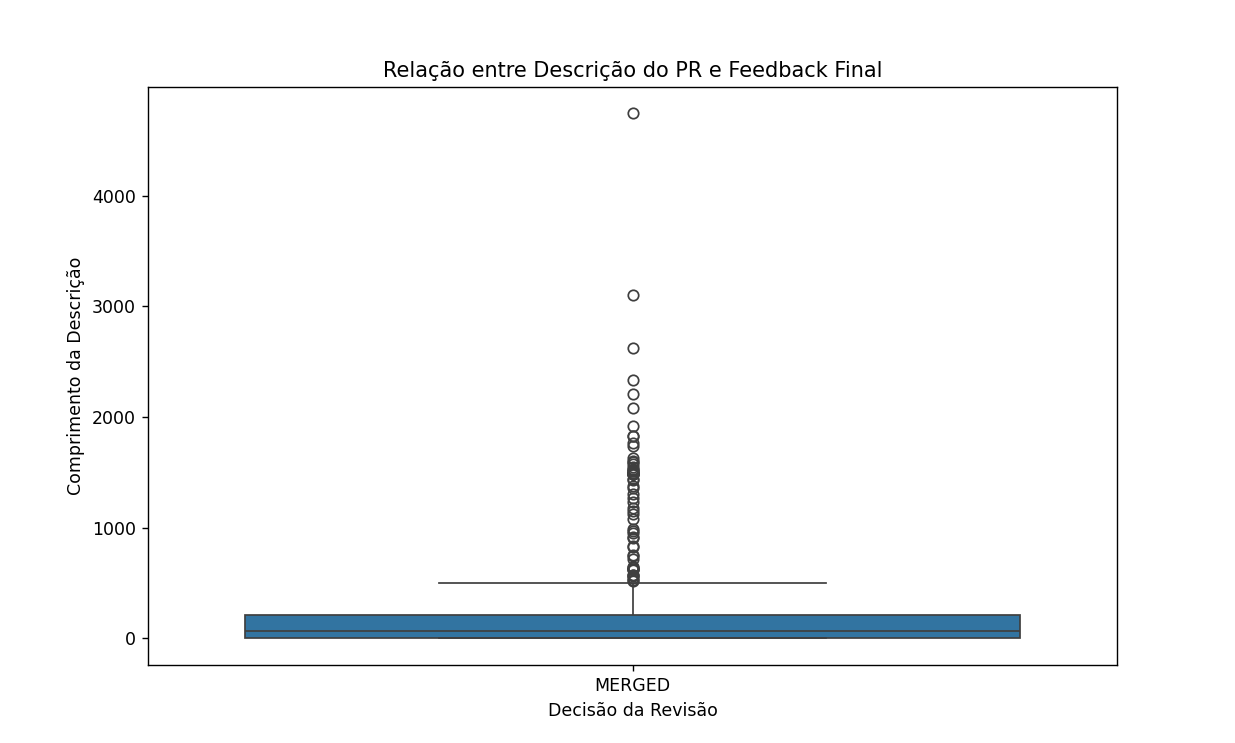
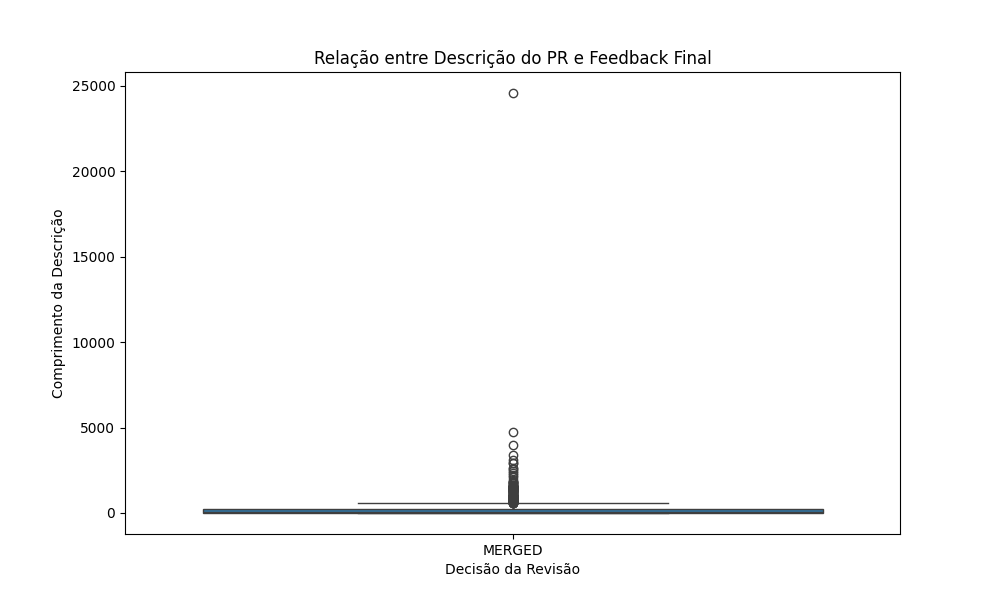
Adiciona imagens dos graficos no docs

diff --git a/src/analyze_feedbacks.py b/src/analyze_feedbacks.py
@@ -3,7 +3,7 @@ import seaborn as sns
 import matplotlib.pyplot as plt
 
 # Carregar os dados do CSV
-df = pd.read_csv('./files/prs_infos.csv')
+df = pd.read_csv('./prs_infos_paginated.csv')
 
 # Gráfico 1: Relação entre o tamanho do PR (adições + remoções) e o feedback final (MERGED ou CLOSED)
 df['Total Alterações'] = df['Total de Adições'] + df['Total de Remoções']

diff --git a/src/analyze_reviews.py b/src/analyze_reviews.py
@@ -4,7 +4,7 @@ import matplotlib.pyplot as plt
 from scipy.stats import spearmanr, pearsonr
 
 # Carregar os dados do CSV
-prs_df = pd.read_csv('./files/prs_infos.csv')
+prs_df = pd.read_csv('./prs_infos_paginated.csv')
 
 # Converter colunas para tipos numéricos (float)
 cols_to_convert = ['Total de Arquivos Alterados', 'Decisão da Revisão', 

diff --git a/docs/README.md b/docs/README.md
@@ -20,6 +20,7 @@ Diante da base extraída, foi realizado um filtro no código de modo que printas
 
 
 * **RQ 01. Qual a relação entre o tamanho dos PRs e o feedback final das revisões?**
+    ![alt text](./images/req01_boxplot_graph.png)
        
     **Métrica:** Tamanho do PR (total de alterações) vs. feedback final.
 
@@ -28,6 +29,7 @@ Diante da base extraída, foi realizado um filtro no código de modo que printas
    **Discussão do resultado:** A maior parte dos PRs com um número menor de alterações tende a ser rapidamente mesclada, indicando que PRs menores podem ser mais fáceis de revisar e aprovar.
 
 * **RQ 02. Qual a relação entre o tempo de análise dos PRs e o feedback final das revisões?**
+    ![alt text](./images/req02_boxplot_graph.png)
        
     **Métrica:** Tempo de análise (horas) vs. feedback final.
   
@@ -36,6 +38,7 @@ Diante da base extraída, foi realizado um filtro no código de modo que printas
     **Discussão do resultado:** A maioria dos PRs foram analisados rapidamente ou por CI/CD ou por serem pequenos, enquanto PRs complexos ou esquecidos podem ter tempos de análise significativamente maiores.
 
 * **RQ 03. Qual a relação entre a descrição dos PRs e o feedback final das revisões?**
+    ![alt text](./images/req03_boxplot_graph.png)
        
   **Métrica:** Tamanho da descrição do PR (número de caracteres) vs. feedback final.
 
@@ -44,6 +47,7 @@ Diante da base extraída, foi realizado um filtro no código de modo que printas
   **Discussão do resultado:** PRs com descrições detalhadas tendem a ser mais aprovados, sugerindo que uma boa explicação pode facilitar a revisão apesar de nao haver uma relação forte. 
     
 * **RQ 04. Qual a relação entre as interações nos PRs e o feedback final das revisões?**
+    ![alt text](./images/req04_boxplot_graph.png)
        
   **Métrica:** Número de interações nos PRs (comentários, revisões, etc.) vs. feedback final.
 
@@ -52,39 +56,43 @@ Diante da base extraída, foi realizado um filtro no código de modo que printas
    **Discussão do resultado:** Isso sugere que a maioria dos PRs requer relativamente poucas interações antes de ser aprovada, o que pode indicar que revisões mais simples ou menos controversas são rapidamente resolvidas. Os poucos outliers, com maior número de interações, provavelmente representam PRs mais complexos ou debatidos.
 
 * **RQ 05. Qual a relação entre o tamanho dos PRs e o número de revisões realizadas?**
+    ![alt text](./images/req05_boxplot_graph.png)
        
     **Métrica:** Tamanho dos PRs (Total de Arquivos Alterados) vs. numero de revisões realizadas.
 
-    **Resultado:** O gráfico de dispersão gerado mostra uma correlação de Pearson de 0,002 com um valor-p de 0,971. Isso indica uma correlação extremamente fraca e não significativa entre o tamanho dos PRs e o número de revisões.
+    **Resultado:** O gráfico de dispersão gerado mostra uma correlação de Pearson de 0,000 com um valor-p de 0,989. Isso indica uma correlação extremamente fraca e não significativa entre o tamanho dos PRs e o número de revisões.
 
     **Discussão do resultado:** O tamanho do PR não é um bom preditor do número de revisões. Outros fatores, além do tamanho devem desempenhar um papel mais importante na quantidade de iterações necessárias, como complexidade.
 
 * **RQ 06. Qual a relação entre o tempo de análise dos PRs e o número de revisões realizadas?**
+    ![alt text](./images/req06_boxplot_graph.png)
        
     **Métrica:** Tempo de Análise: (Tempo gasto para analisar um PR) vs. Número de Revisões.
 
-    **Resultado:** O gráfico de dispersão que geramos mostra uma correlação de Pearson de 0,081 com um valor-p de 0,0607. Essa correlação é considerada fraca e próxima do limite da significância estatística. Ou seja, existe uma leve tendência de que PRs que levam mais tempo para serem analisados também recebam mais revisões, porém com esse dataset a tendencia não se confirma significante o suficiente para afirmar a relação.
+    **Resultado:** O gráfico de dispersão que geramos mostra uma correlação de Pearson de 0,023 com um valor-p de 0,0446. Essa correlação é considerada fraca e próxima do limite da significância estatística. Ou seja, existe uma leve tendência de que PRs que levam mais tempo para serem analisados também recebam mais revisões, porém com esse dataset a tendencia não se confirma significante o suficiente para afirmar a relação.
 
     **Discussão do resultado:**  A correlação do gráfico sugere que o tempo de análise e o número de revisões podem estar levemente relacionados, mas outros fatores podem estar influenciando essa relação.
 
 
 * **RQ 07. Qual a relação entre a descrição dos PRs e o número de revisões realizadas?**
+    ![alt text](./images/req07_boxplot_graph.png)
        
     **Métrica:** Comprimento da Descrição  vs. Número de Revisões (Quantidade de vezes que o PR passou por revisão e feedback).
 
-    **Resultado:** O gráfico de dispersão mostra uma correlação de Pearson de 0,244 com um valor-p de 1,31e-08. Indicando uma correlação positiva moderada entre o comprimento da descrição e o número de revisões. Portanto, à medida que a descrição do PR aumenta, tende a haver um aumento, mesmo que leve, no número de revisões.
+    **Resultado:** O gráfico de dispersão mostra uma correlação de Pearson de 0,040 com um valor-p de 0,175. Indicando uma correlação positiva moderada entre o comprimento da descrição e o número de revisões. Portanto, à medida que a descrição do PR aumenta, tende a haver um aumento, mesmo que leve, no número de revisões.
 
     **Discussão do resultado:**  Houve uma correlação Positiva sugerindo que PRs com descrições mais detalhadas tendem a passar por mais revisões. Possivelmente devido a maior complexidade ou de uma maior compreensão do avaliador devido ao detalhamento.
 
 
 * **RQ 08. Qual a relação entre as interações nos PRs e o número de revisões realizadas?**
+    ![alt text](./images/req08_boxplot_graph.png)
        
     **Métrica:**  Total de Comentários vs. Total de Revisões.
 
-    **Resultado:** O gráfico de dispersão apresentado mostra uma correlação de Pearson de 0,159 com um valor-p de 0,000245. O que indica uma correlação positiva fraca a moderada entre o total de comentários e o número de revisões.
+    **Resultado:** O gráfico de dispersão apresentado mostra uma correlação de Pearson de 0,86 com um valor-p de 0,00. O que indica uma correlação positiva fraca a moderada entre o total de comentários e o número de revisões.
 
     **Discussão do resultado:** A correlação positiva sugere que PRs com mais comentários tendem a passar por mais revisões. Provavelmente devido a ter mais pontos e observações a serem resolvidos ou melhorados
 
 ## 4) Discussão
 
-Os resultados obtidos no relatório indicam 
+Os resultados obtidos no relátorio indicam que PRs menores tendem a ser aprovados mais rapidamente, possivelmente por ferramentas automatizadas. PRs com menos interações e revisões são processados com mais agilidade, enquanto PRs maiores e mais complexos, que envolvem mais comentários, tendem a passar por mais revisões. Apesar de alguns PRs maiores serem aprovados, o número de mudanças e o tempo de análise não mostraram correlação forte com o número de revisões. A automatização, via CI/CD e bots, pode ter impactado o tempo de análise dos PRs. As correlações, embora fracas ou moderadas, sugerem que outros fatores como a complexidade e a clareza das descrições podem influenciar o processo de revisão.
